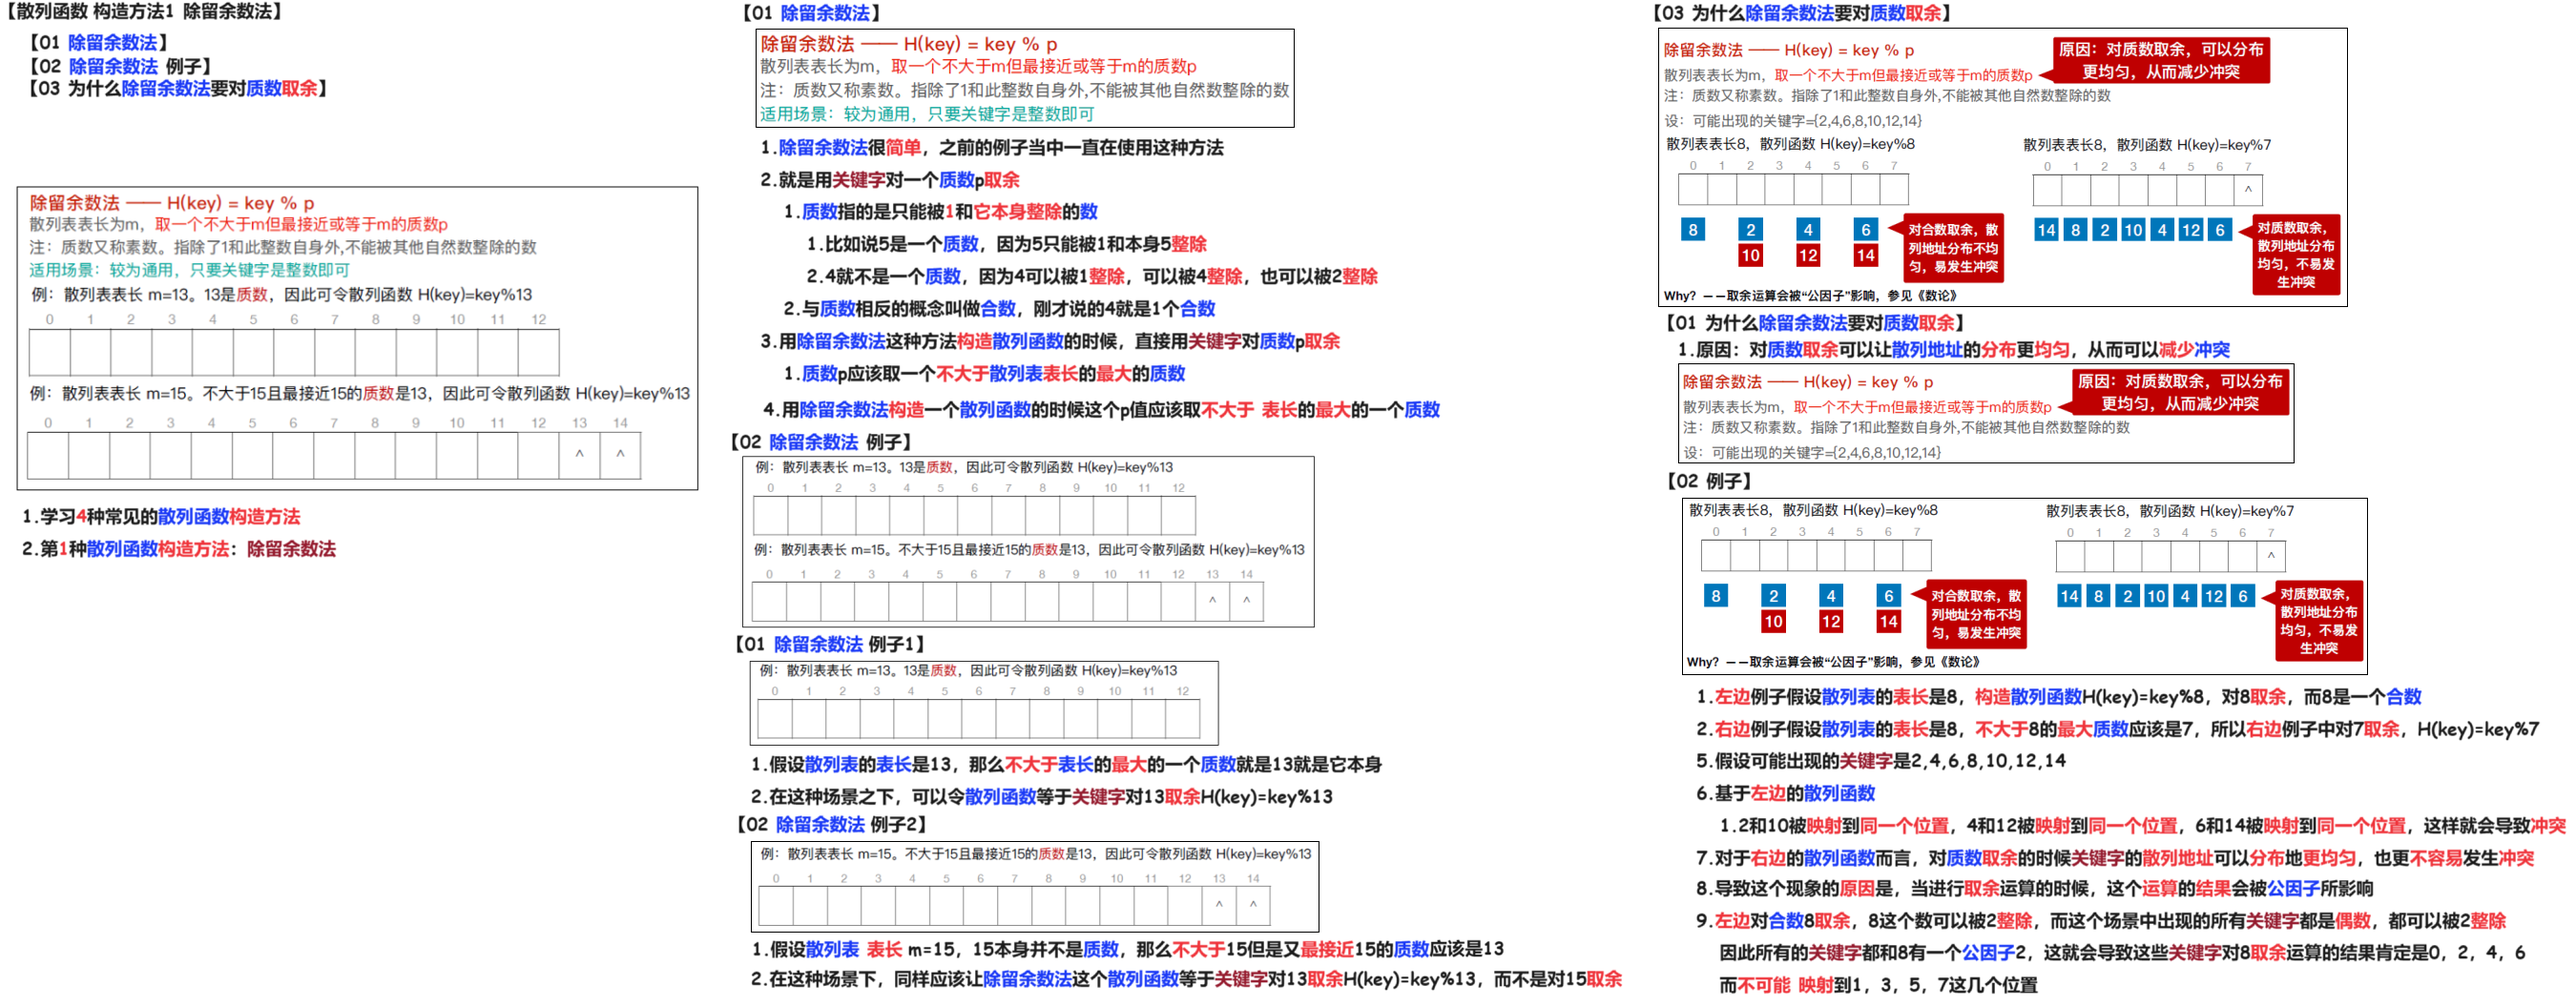
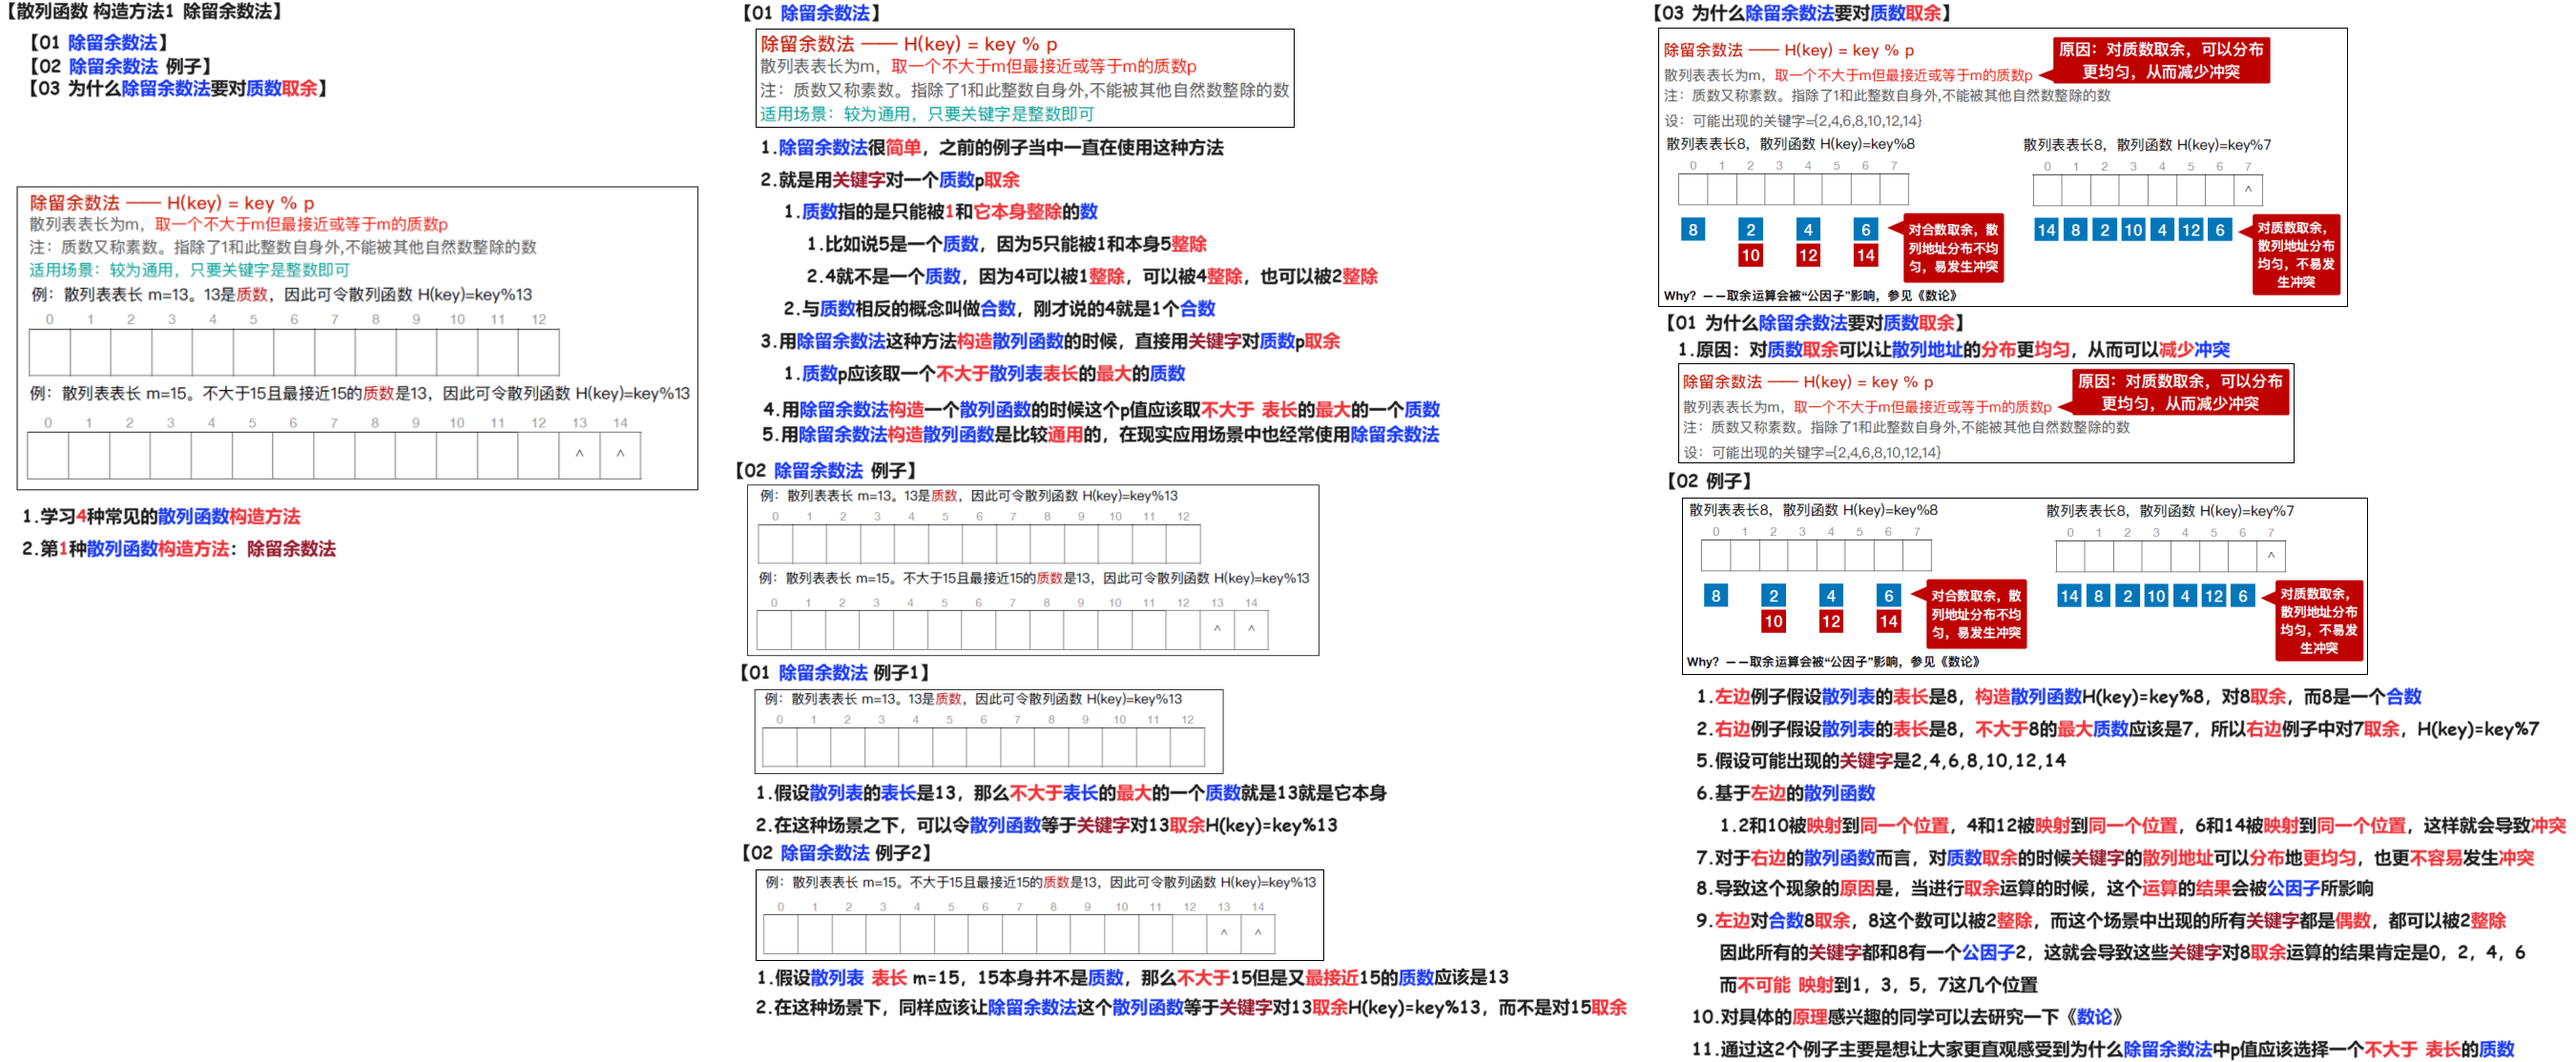
240327

Changed region(s): [[0.0, 0.0, 0.9956, 1.0], [0.0, 0.182, 0.2178, 0.3336], [0.0, 0.0, 0.1244, 0.1213]]

diff --git a/01 初试/02 DS/02 知识点/01 王道基础/07 第七章 查找/05 散列表/02 散列函数 构造 240327/02 Doc.md b/01 初试/02 DS/02 知识点/01 王道基础/07 第七章 查找/05 散列表/02 散列函数 构造 240327/02 Doc.md
@@ -13,3 +13,7 @@
 <img src="https://cvp.oss-cn-shanghai.aliyuncs.com/picgo/202403270756020.png" alt="image-20240327075627716" style="zoom:50%;" />
 
 # 03 散列函数 构造方法1 除留余数法
+
+<img src="https://cvp.oss-cn-shanghai.aliyuncs.com/picgo/202403270946477.png" alt="image-20240327094628233" style="zoom:50%;" />
+
+# 04 散列函数 构造方法2 直接定址法
